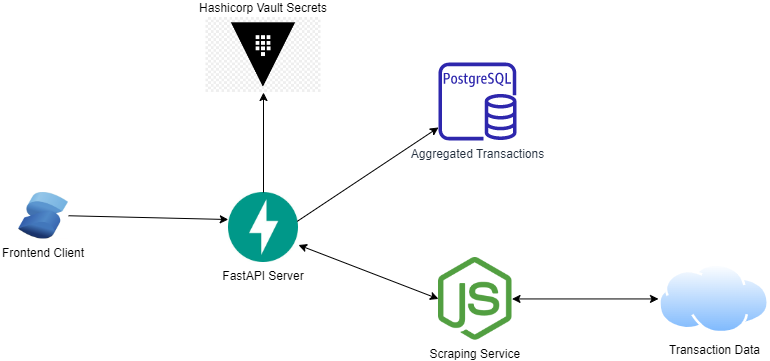
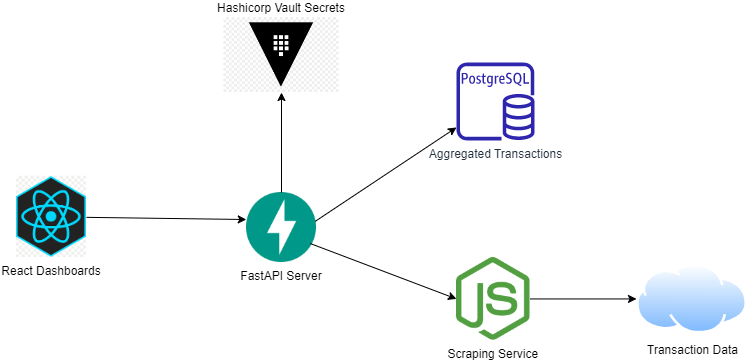
updated docs

diff --git a/README.MD b/README.MD
@@ -1,1 +1,20 @@
-# Bank Scrapers DB
+# FastAPI Budget DB (WIP)
+A generalized api and Postgres DB to store financial transaction data from different data sources. 
+
+## Design Details
+
+API / DB:
+- [FastAPI](https://fastapi.tiangolo.com/) server
+- [SQLMODEL](https://sqlmodel.tiangolo.com/) ORM
+- Containterized Postgres DB (or hosted in Neon / Supabase Postgres)
+
+Scraper / Loader:
+- Scraper implementation built using [Israel Bank Scrapers](https://github.com/eshaham/israeli-bank-scrapers) project. 
+- Scraper can be additional docker container on a docker-compose monolith deployment, or extracted to a lambda.
+- Scraper needs sensitive credentials, store securely at rest in a secrets manager.
+
+Frontend:
+- React GUI to consume and visualize data in pretty dashboards. Other typical consumers can be a Tableau client, PowerBI, ad-hoc Pandas scripts etc.
+
+General Architecture:
+![General Architecture](docs/diagrams/general_architecture.png)
